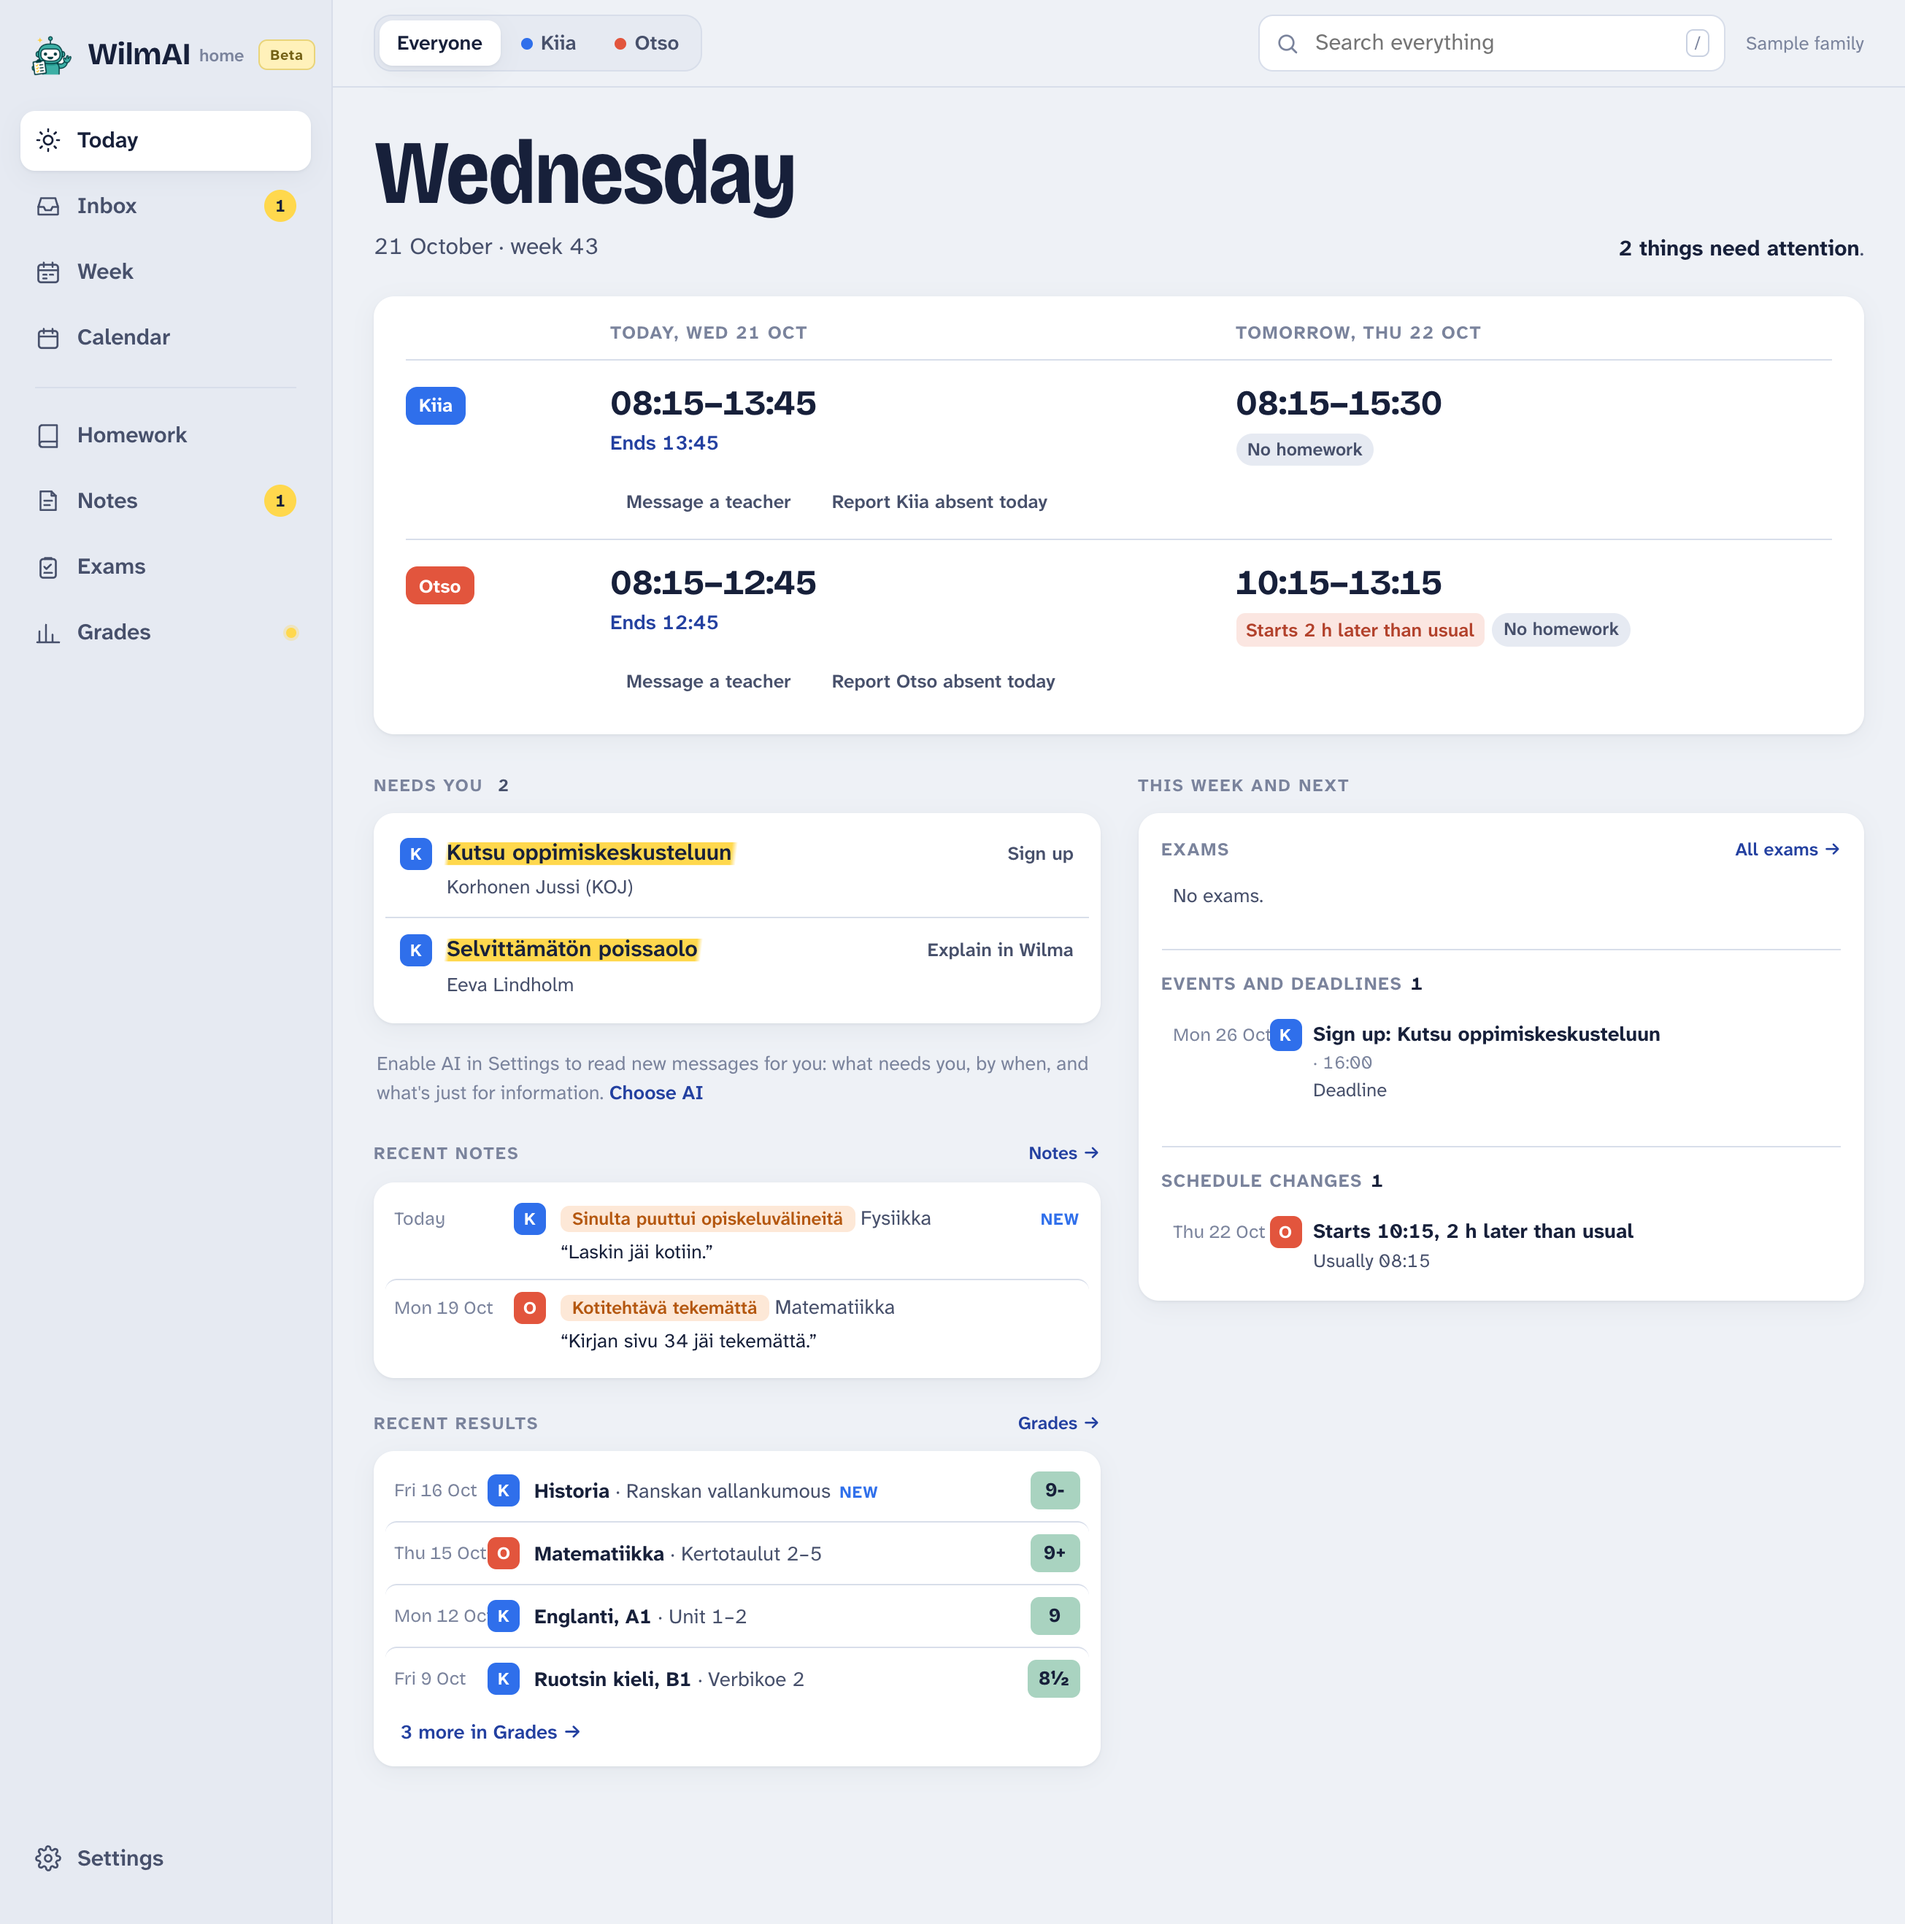
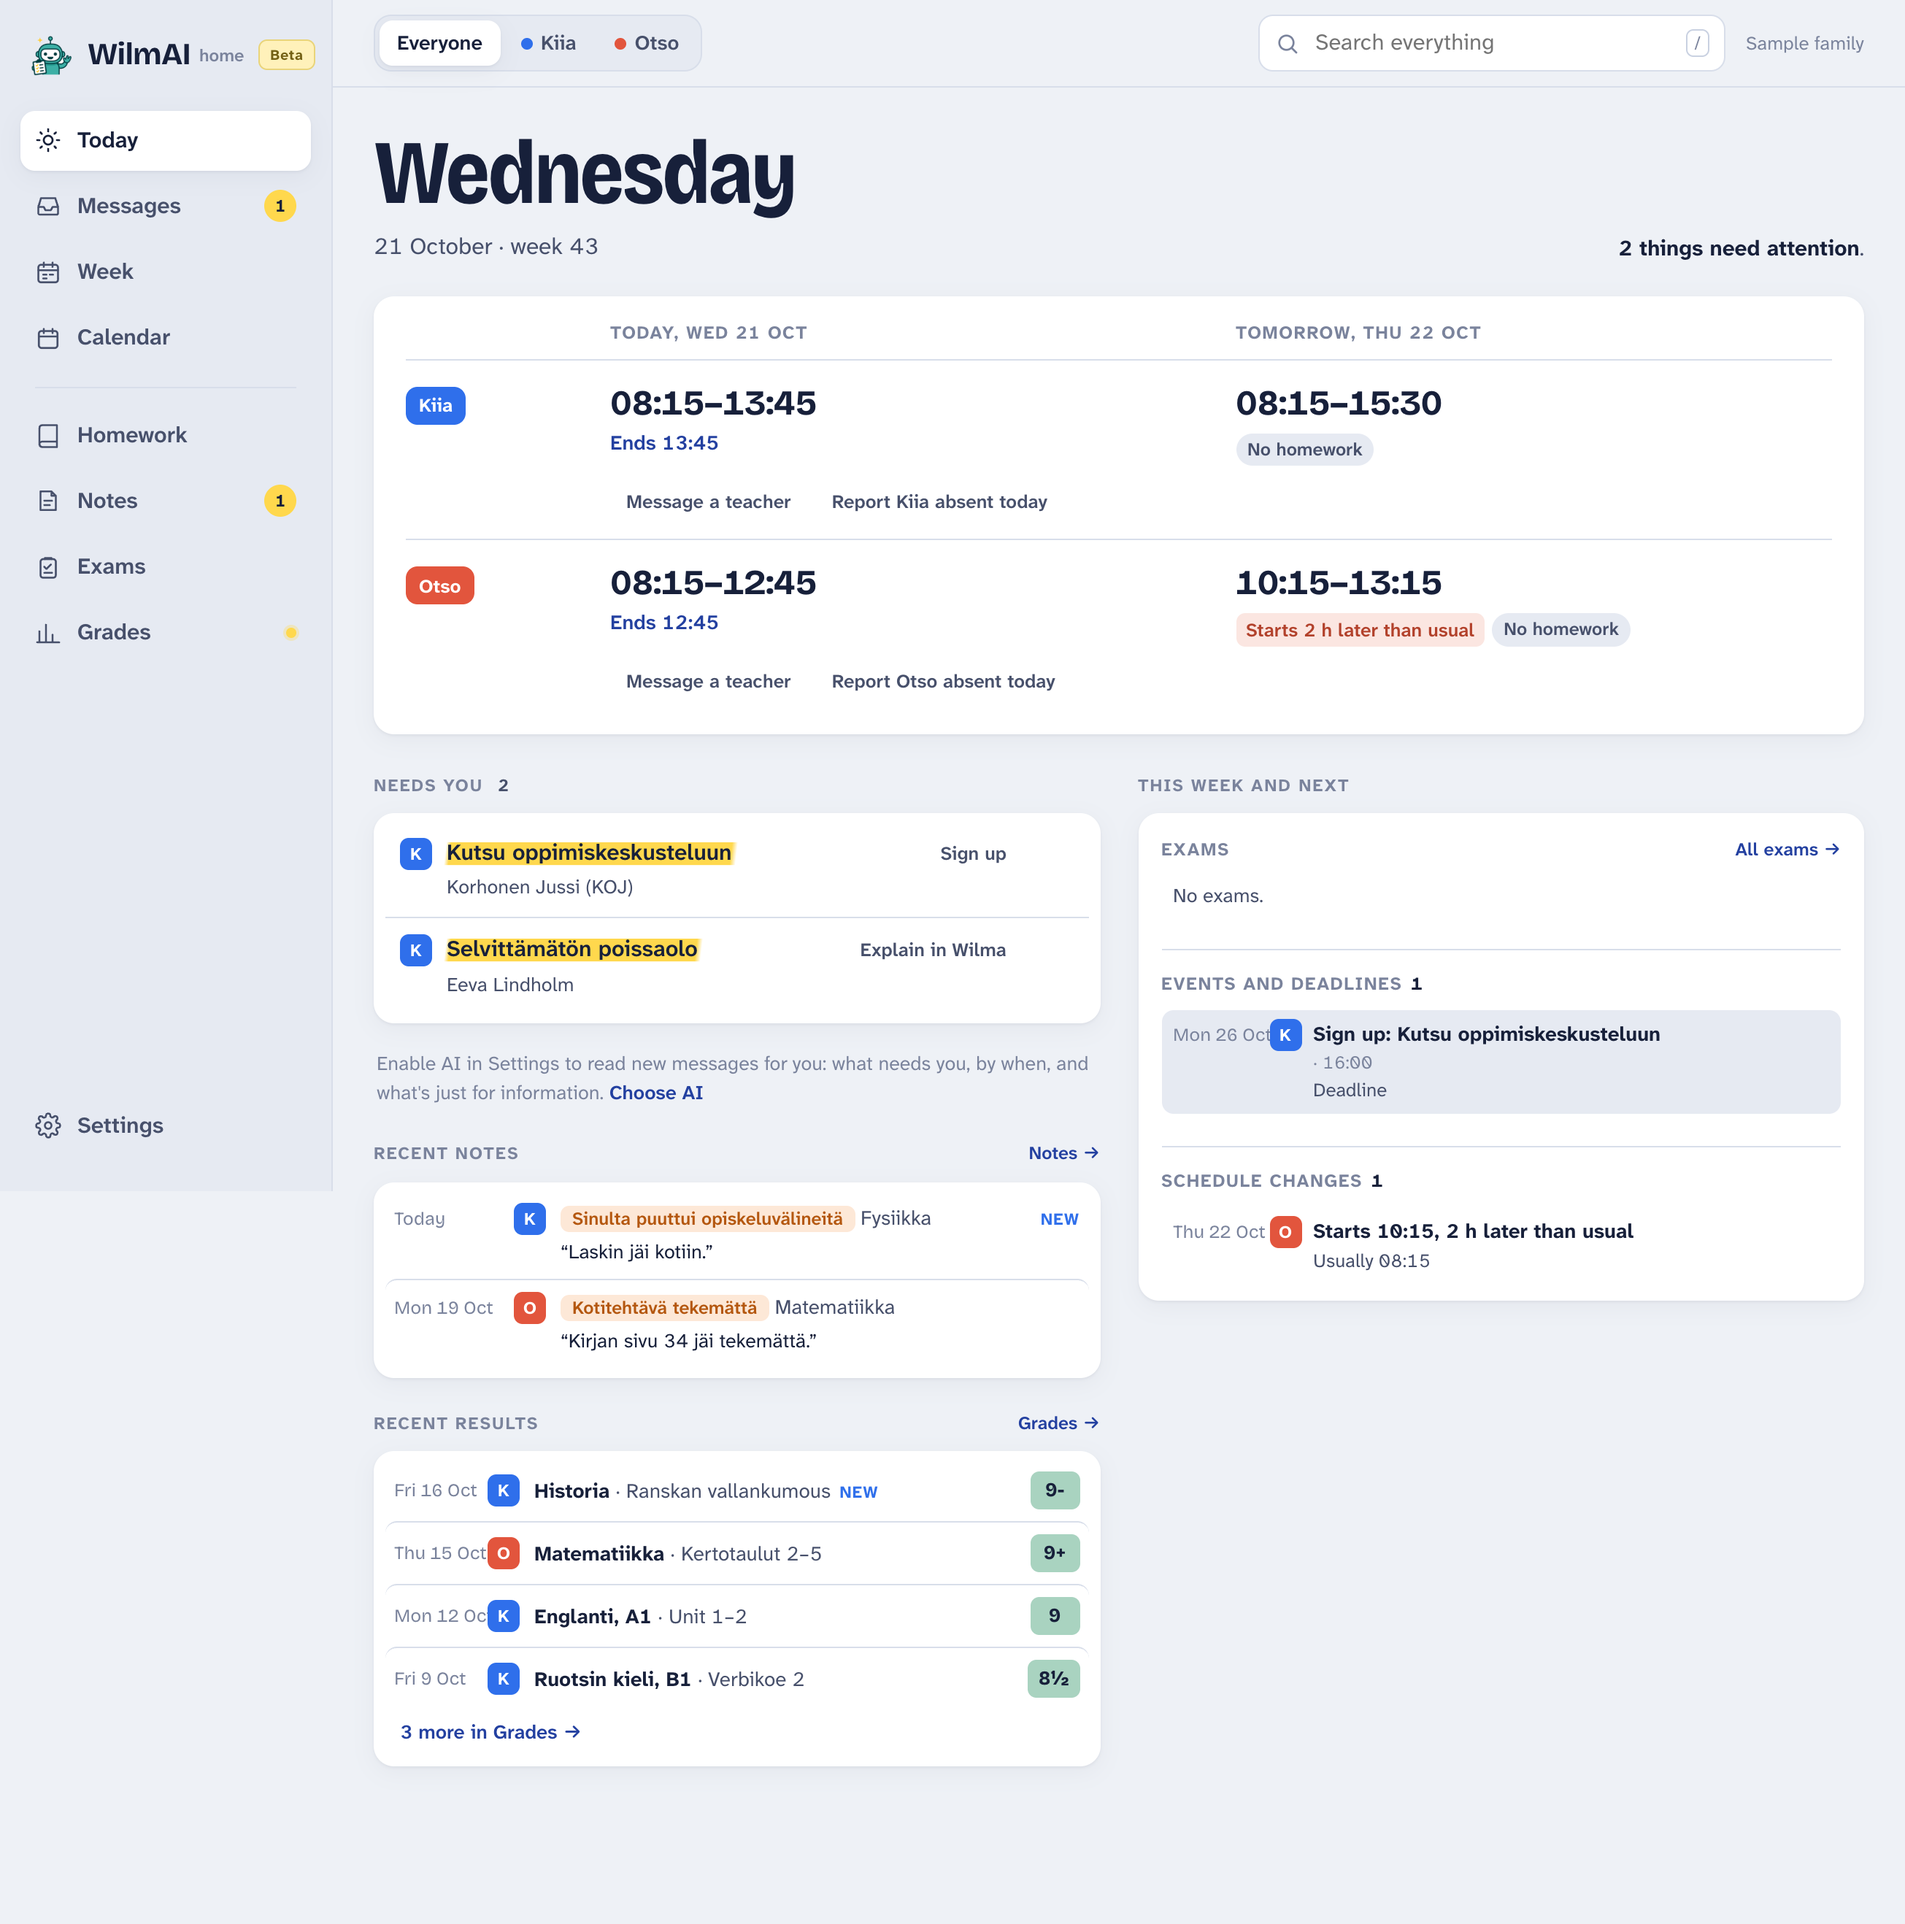
README and the site's pictures of WilmAI Home: Messages, not Inbox, and taken by the tour's capture
The pictures of the app (Today whole, the banner's thumbnail, a student's Today, a
parent's Week, in both languages, and the README's top strip) still showed Inbox.
The tour's capture script now takes them too, from the same run and settings, so one
command keeps every picture of the app current; the site README says so instead of
the steps by hand. The student's Today hides the children's picker, which a student's
own login doesn't have.

The README's example conversation follows the front page's hero (tomorrow, then what
needs you), and its WilmAI Home section adds children at different schools' Wilmas
and the app in your language with translated messages.

Changed region(s): [[0.5897, 0.4977, 0.9931, 0.591], [0.4655, 0.4355, 0.5586, 0.4977], [0.031, 0.0933, 0.0931, 0.1244]]

diff --git a/apps/site/README.md b/apps/site/README.md
@@ -12,21 +12,12 @@ static files and served by Cloudflare Workers.
 - `components/HomeCard.tsx` — Home's card on the front page, after the setup guides; with the top bar's
   "WilmAI Home" link and an FAQ answer, that's how people find it. The front page's hero stays about
   assistants.
-- `public/home-today-*.png`, `public/home-student-*.png`, `public/home-parent-*.png` — the app in its light theme
-  with the made-up sample family, never real children's data: Today for the hero (the whole page, no scroll
-  bar), and for the two-column section a student's Today (Kiia only) and a parent's Week (both children). To
-  retake them: run the app in a browser (the `wilma-app-review` launch config, or `pnpm dev` in `apps/home`) and
-  open it in a fresh browser profile with the light colour scheme, the language's locale, Helsinki's time zone
-  and 2× pixels, with the clock frozen on a school-day morning (Playwright's `page.clock.setFixedTime`, e.g.
-  Wednesday 21 Oct 2026 at 09:40): the sample family is built around today, so a weekend shows no school.
-  Choose "Look around with a sample family" (never a saved login), then No AI in Settings (so the menu's
-  "Choose AI" cue is gone), and hide the menu's corner (`.nav-foot`, `.nav-version`: in a browser it says
-  "Only in this browser"). In a window 1305 wide and as tall as the page (`document.documentElement.scrollHeight`):
-  Today whole (1318 now), and the Week's top 816. For the student, set `viewAs: "student"` in the app's saved
-  `local` state (IndexedDB `keyval-store`; Settings hides "Who uses this account" for the sample family),
-  reload, pick Kiia, and take Today's top 816. The page's `<Image>` sizes and the Open Graph size follow the
-  pictures. The banner's `home-thumb-*.png` are Today's top 1305×870 at 480×320, and the main README's
-  `assets/readme-home-top.png` its top 1305×372 at 2×.
+- `public/home-today-*.png`, `public/home-student-*.png`, `public/home-parent-*.png`, `public/home-thumb-*.png` — the
+  app in its light theme with the made-up sample family, never real children's data: Today whole (the Home page's
+  share image and the front page's card), a student's own Today (Kiia's, without the children's picker a student's
+  login doesn't have) and a parent's Week for the two-column section, and Today's top at 480×320 for the banner. The
+  tour's capture makes them too (below), with the main README's `assets/readme-home-top.png` (Today's top
+  1305×372 at 2×). The page's `<Image>` sizes and the Open Graph size follow the pictures.
 - `public/home-tour/<lang>/*.webp`, `lib/home-tour.json` — the hero's tour (components/HomeTour.tsx), made the
   way the product tours in Antti's decks are: screens of the app put in motion with GSAP, in code, so it stays
   up to date with a new capture instead of a new recording. `pnpm --filter @wilm-ai/site capture:home-tour`

diff --git a/README.md b/README.md
@@ -38,7 +38,11 @@ A fast, modern Wilma app for students and parents: lessons, messages, homework, 
 
 > **You:** What do the kids have at school tomorrow?
 >
-> **Your assistant:** Kiia has crafts 8:30–11:00, then geography and math; her English exam is on Thursday (units 7–9). Eino starts at 9:15 with swimming, so pack a swimsuit and towel. There's also a new message from the class teacher about Friday's trip: the permission form is due Wednesday.
+> **Your assistant:** Kiia has crafts, geography and math, 8:30–14:00, and her English exam is on Thursday (units 7–9). Eino starts at 9:15 with swimming, so pack a swimsuit and a towel.
+>
+> **You:** Is there anything I need to do this week?
+>
+> **Your assistant:** Two things. Eino's trip on Friday needs your permission: return the form by Wednesday. And Kiia's art lesson on Monday is marked as an absence, so explain it in Wilma.
 
 WilmAI connects Wilma, the system Finnish schools use for schedules, homework, exams, grades and messages, to the AI assistant or agent you already use. It's an MCP server, a command-line tool and two agent skills, free and open source. There's also [WilmAI Home](#wilmai-home-the-desktop-app), a desktop app of its own for students and parents.
 
@@ -201,7 +205,9 @@ Working on WilmAI or releasing it: [DEVELOPING.md](DEVELOPING.md). Tests: [TESTI
 
 <img src="apps/site/public/home-today-en.png" alt="WilmAI Home's Today with a made-up sample family: each child's school day, what needs you, and this week's exams and events." width="100%">
 
+- **Children at different schools.** When your children's schools are on different Wilmas (another town, an upper secondary school, a private school), sign in to each one, and every view shows all the children together.
 - **Reads and writes.** Reply to teachers, write new messages, sign up for parents' evenings and report absences, without opening Wilma. Pin the messages you keep coming back to.
+- **In your language.** The app is in English, Finnish or Swedish, and with AI on it translates messages, bulletins and teachers' notes as they arrive, into Finnish, Swedish, English, Ukrainian or Arabic.
 - **For a student too.** Sign in with a student's own Wilma account and choose "A student": the app then reads things from the student's side.
 - **AI is optional.** No AI (the default), OpenAI with your own API key (usually tens of cents a month; the app stops at a monthly limit you set), or local AI on an Apple Silicon Mac with 16 GB of memory, where nothing goes to an AI service.
 - **Stays on your computer.** No WilmAI server and no tracking. Your Wilma password goes only to your school's Wilma; the app keeps it (scrambled) only if you turn on staying signed in.
